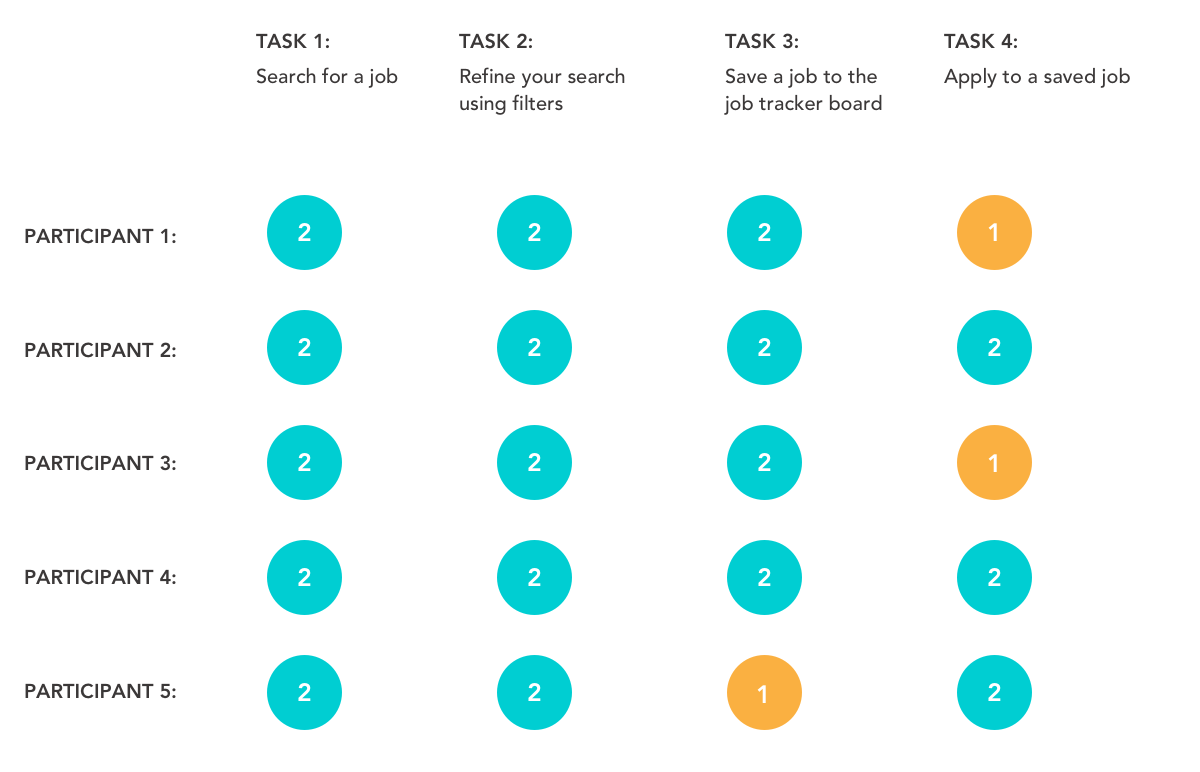
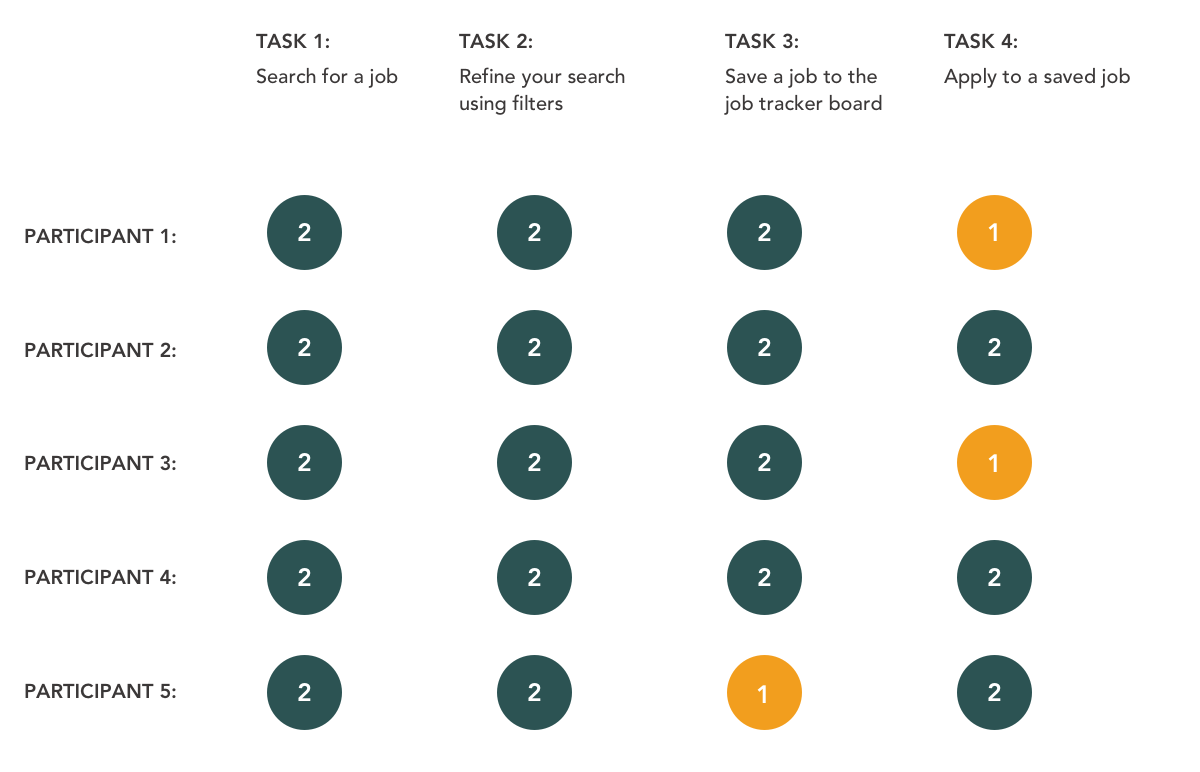
updating right track images

diff --git a/righttrack.html b/righttrack.html
@@ -104,7 +104,7 @@
               <div class="col-xs-12 image-padding table-top-padding">
       
    
-           <img src="assets/images/PerspectiveMock-Up-min.png" style="background-color:#FFF; " class="img-responsive" alt="Survey">
+           <img src="assets/images/PerspectiveMockUpmin.png" style="background-color:#FFF; " class="img-responsive" alt="Survey">
      
         </div>
         </div> <!--close row -->
@@ -759,7 +759,8 @@ that they could apply to.
                               </li>
                               <li>
                                   Feedback regarding interface design amendments were taken on board and improvements were
-                                  made to the usability and accessibility of the app.
+                                  made to the usability and accessibility of the app. The colours being used were changed to provide more contrast
+                                  to make the app more accessible.
                               </li>
                               </ul>
                   </div>
@@ -779,11 +780,14 @@ that they could apply to.
 primary button that the users choose initially.</li>
 
 <Li>
-The filter button was replaced by a filter icon that is highlighted in green to increase its visability.
+The filter button was replaced by a filter icon that is highlighted in dark green as it is interactive.
 </LI>
 
 <LI >
 The size of the heading that displays the number of job titles was increased to improve accessibility.
+</LI>
+<LI >
+The colour palette being used was changed to make the app more accessible.The orange heading was changed to grey to provide more contrast and the light green was changed to a darker green as it failed a contrast test.
 </LI>
  </UL>
                   

diff --git a/assets/css/style.css b/assets/css/style.css
@@ -303,7 +303,7 @@ section {
 .fullbanner-righttrack {
     background-image:
     linear-gradient(to top, rgba(0, 0, 0, 0.7), rgba(0, 0, 0, 0.7)), 
-    url('../images/Header_Mockup-min.png');
+    url('../images/Header_MockUp-min.png');
     background-repeat: repeat;
     background-size: cover;
     width: 100%;
